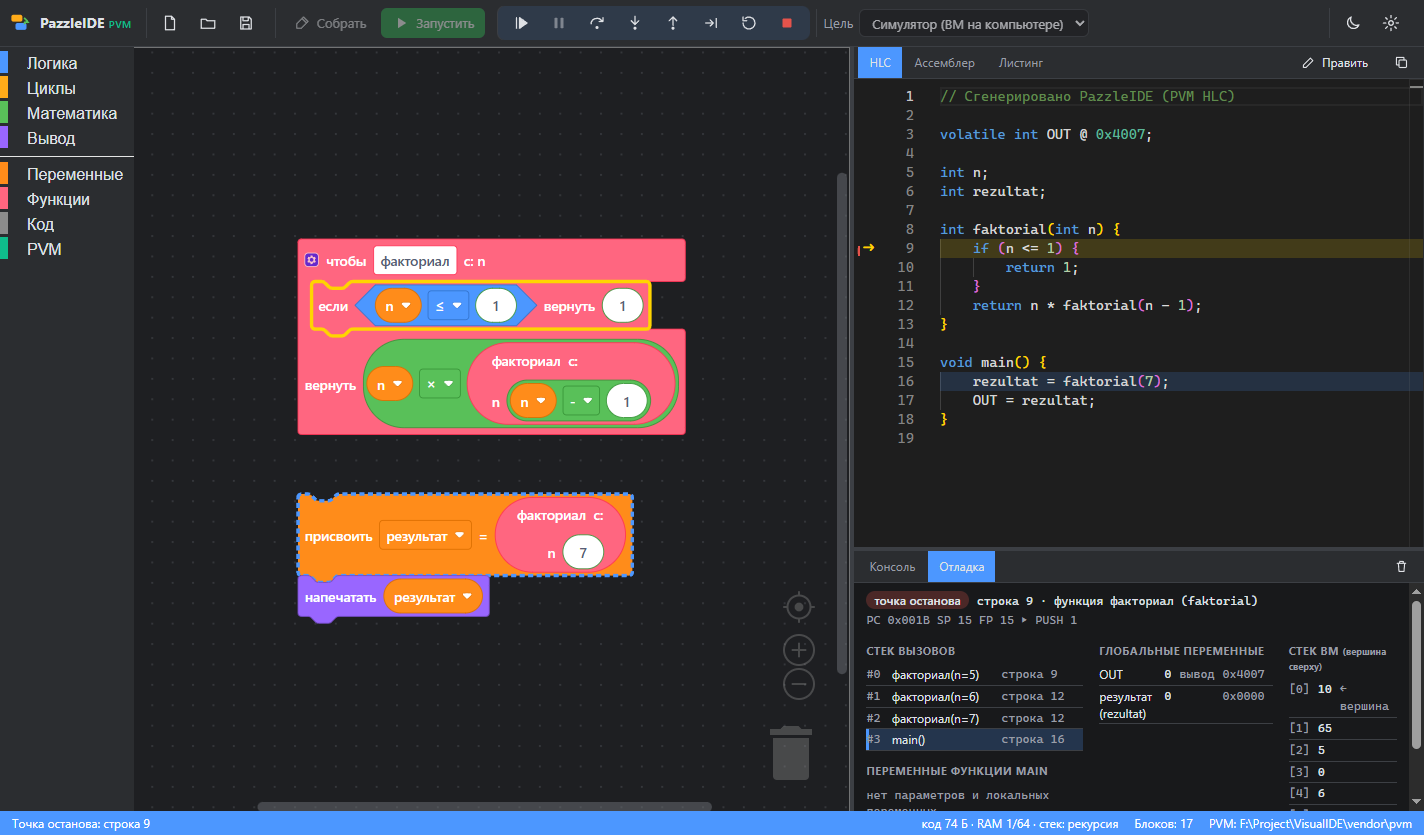
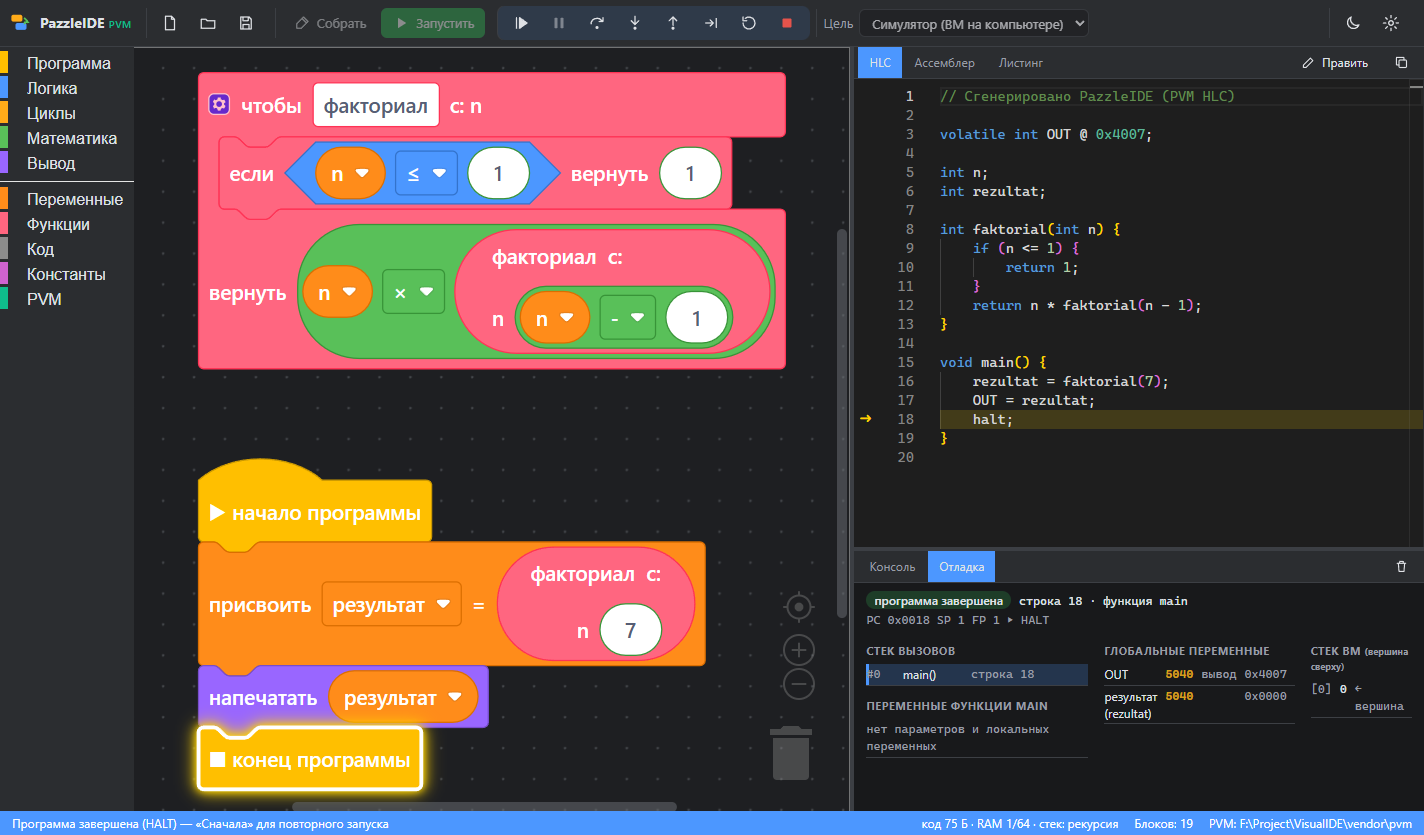
End block: "■ конец программы" finishes the program
The counterpart of the start block: it compiles to halt;, nothing can be
attached below it, and it shares the start block's look in the
"Программа" category. A new project starts as a start/end pair, like a
flowchart, and the examples end with it. When the program finishes on it,
the end block is the one highlighted.

The separate "остановить ВМ" block is no longer offered in the PVM
category (it does the same); projects that use it still open and build.
The current block is now outlined in white with a yellow glow, which stays
visible on yellow blocks too.

diff --git a/src/renderer/app.js b/src/renderer/app.js
@@ -801,9 +801,10 @@ const commands = {
   async new() {
     if (!confirmDiscard()) return;
     await stop();
-    // Новая программа начинается с блока «▶ начало программы».
+    // Новая программа — пара «▶ начало программы» … «■ конец программы»; блоки вставляются между ними.
     const entry = state.language.pack.entryBlock;
-    loadProjectInto(state.ws, {workspace: entry ? {blocks: {languageVersion: 0, blocks: [{type: entry, x: 60, y: 60}]}} : {}});
+    const start = entry && {type: entry, x: 60, y: 60, ...(Blockly.Blocks.pvm_end ? {next: {block: {type: 'pvm_end'}}} : {})};
+    loadProjectInto(state.ws, {workspace: start ? {blocks: {languageVersion: 0, blocks: [start]}} : {}});
     state.filePath = null;
     state.breakpoints.clear();
     state.build = null;

diff --git a/src/renderer/styles.css b/src/renderer/styles.css
@@ -327,7 +327,7 @@ button svg .fill-path { fill: currentColor; }
 
 /* Точка останова на блоке и текущий блок при отладке. */
 .pz-bp > .blocklyPath { stroke: #e5534b !important; stroke-width: 4px !important; }
-.pz-current > .blocklyPath { stroke: #ffd400 !important; stroke-width: 4px !important; }
+.pz-current > .blocklyPath { stroke: #ffffff !important; stroke-width: 3px !important; filter: drop-shadow(0 0 3px #ffd400) drop-shadow(0 0 6px #ffd400); }
 
 /* Monaco: точки останова в поле слева и текущая строка. */
 .pz-bp-glyph::before { content: ''; display: block; width: 10px; height: 10px; margin: 4px 0 0 4px; border-radius: 50%; background: #e5534b; }
